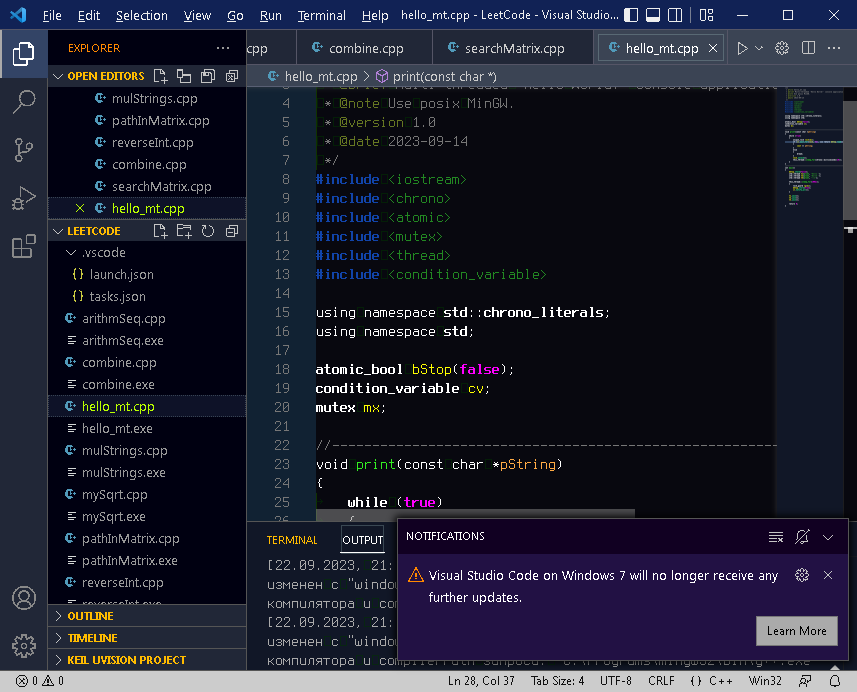
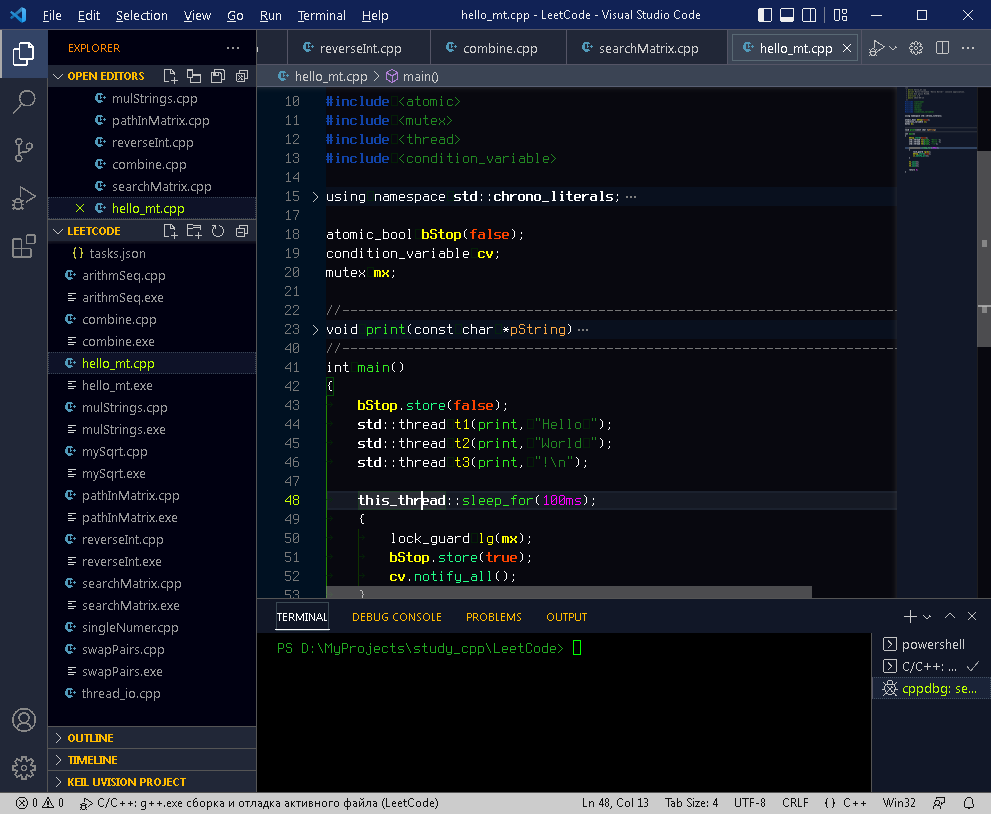
Release 1.0.0

diff --git a/readme.md b/readme.md
@@ -1,5 +1,5 @@
 # [Asphalt Theme](https://github.com/makbit/Asphalt-Theme/)
-**An innovative and ultra-dark bright color theme for Visual Studio Code.**
+**An innovative and ultra-dark contrast color theme for Visual Studio Code.**
 
 <p align="center">
   <img src="./images/Icon-Asphalt-Theme.png" alt="MakBit Asphalt Theme Icon" width="150">
@@ -20,19 +20,28 @@
 ## Screenshot
 
 <p align="center">
-	<img width="800" alt="MakBit Asphalt Theme Screenshot C++" src="./images/screen1.png">
-	<img width="800" alt="MakBit Asphalt Theme Screenshot HTML" src="./images/screen2.png">
+	<img alt="MakBit Asphalt Theme Screenshot C++" src="./images/screen1.png">
+	<img alt="MakBit Asphalt Theme Screenshot Python" src="./images/screen2.png">
+	<img alt="MakBit Asphalt Theme Screenshot HTML" src="./images/screen3.png">
 </p>
 
 ## Description
 
  - Asphalt Theme is a semantic coloring code theme for comfortable programming.
- - Fancy bright colors are used to hightlight C++/HTML/Java syntax.
+ - Fancy bright colors are used to highlight C++/HTML/Java syntax.
  - An innovative color palette features a comprehensive usage of syntax scopes, aesthetics and readability.
  - Unnecessary elements and borders are colored in grayscale, it won't distract you.
- - Theme is mainly focused on C++, Python, HTML/CSS, JavaScript, etc. development.
- - Designed for use with Terminus (TTF) for Windows font 14pt!
+ - Theme is mainly focused on C++, Python, HTML/CSS, JavaScript development.
+ - It is designed for use with Terminus (TTF) for Windows Font 14!
 
+ ## My opinion on color selection algorithm
+
+ - White is used for keywords, controls and punctuation.
+ - Grey is for comments.
+ - Yellow is for variables and Lemon is for member-variables.
+ - Green is for functions and Emerald is for member-functions.
+ - Magenta is used for constants and numbers.
+ - Blue is for macros and preprocessor.
 
 ## Installation via VS Code
 
@@ -44,7 +53,7 @@
 
 ### Issues
 
-When you have an issue, tell me through [https://github.com/makbit/Asphalt-Theme/issues](https://github.com/makbit/Asphalt-Theme/issues), or send me an e-mail.
+When you have an issue or improvement, tell me through [https://github.com/makbit/Asphalt-Theme/issues](https://github.com/makbit/Asphalt-Theme/issues), or send me an e-mail.
 
 ### License
 
